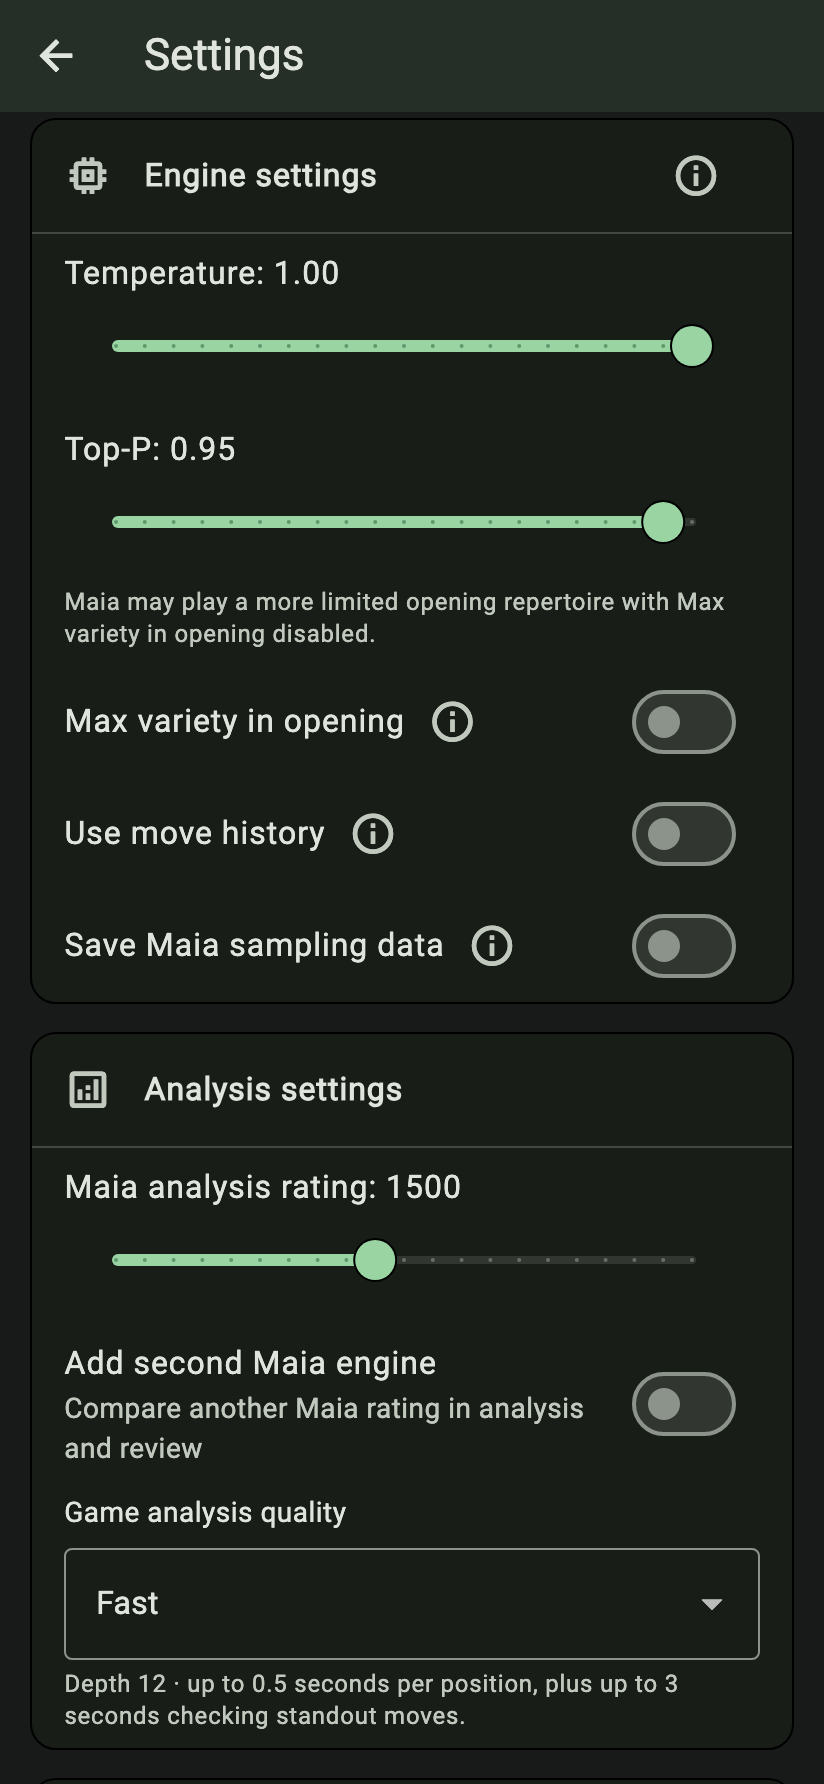
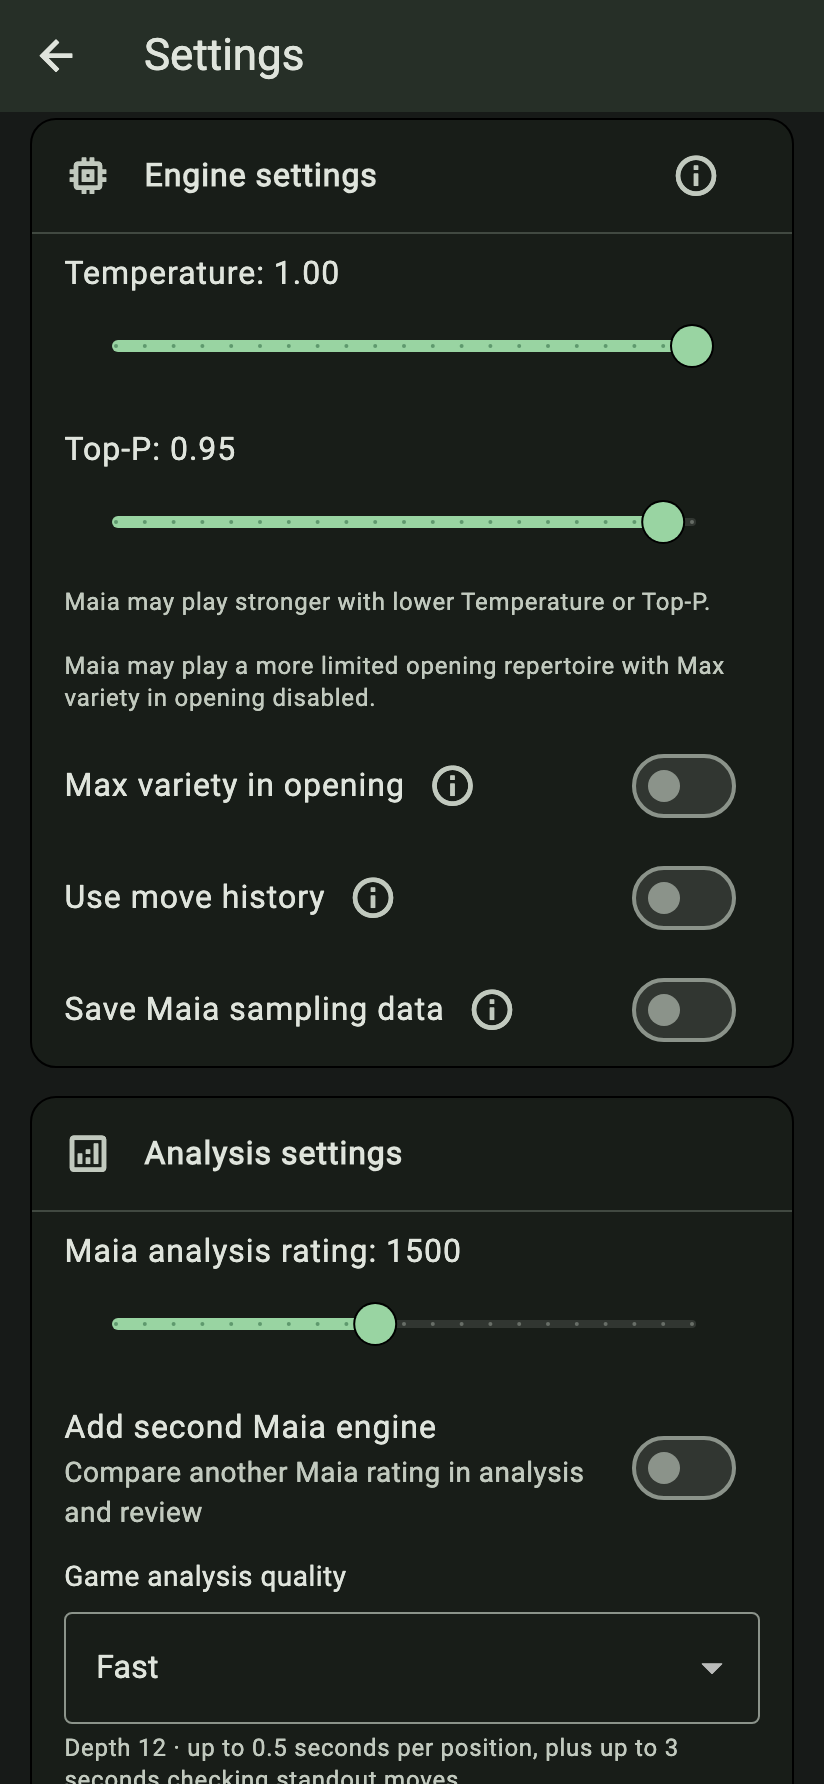
Show strength and repertoire notices when opening variety is off

diff --git a/test/sampling_defaults_test.dart b/test/sampling_defaults_test.dart
@@ -16,13 +16,14 @@ void main() {
       final deterministic = s.samplingArgmaxNotice;
       final afterOpening = s.samplingArgmaxAfterOpeningNotice;
       final lowerAfterOpening = s.samplingLowerAfterOpeningNotice;
+      final lower = s.samplingLowerNotice;
       final cases = <(double, double, bool, List<String>)>[
         (1, 0.95, true, [lowerAfterOpening]),
-        (1, 0.95, false, [limited]),
-        (1, 0.99, false, [limited]),
+        (1, 0.95, false, [lower, limited]),
+        (1, 0.99, false, [lower, limited]),
         (1, 0.99, true, [lowerAfterOpening]),
-        (0.95, 0.95, false, [limited]),
-        (1, 0.90, false, [limited]),
+        (0.95, 0.95, false, [lower, limited]),
+        (1, 0.90, false, [lower, limited]),
         (1, 0.90, true, [lowerAfterOpening]),
         (0.5, 1, true, [lowerAfterOpening]),
         (0.5, 0.95, true, [lowerAfterOpening]),
@@ -33,7 +34,7 @@ void main() {
         (0, 0, false, [deterministic, limited]),
         (0.5, 0, true, [afterOpening]),
         (1, 0, false, [deterministic, limited]),
-        (0.5, 1, false, [limited]),
+        (0.5, 1, false, [lower, limited]),
       ];
       for (final (temperature, topP, openingVariety, expected) in cases) {
         expect(
@@ -82,6 +83,35 @@ void main() {
   });
 
   for (final locale in AppLocalizations.supportedLocales) {
+    testWidgets(
+      'lower settings without opening variety show both notices in ${locale.languageCode}',
+      (tester) async {
+        SharedPreferences.setMockInitialValues({
+          'temperatureV2': 0.5,
+          'topPV2': 0.95,
+          'maxOpeningVarietyV1': false,
+        });
+        tester.view.physicalSize = const Size(320, 568);
+        tester.view.devicePixelRatio = 1;
+        addTearDown(tester.view.resetPhysicalSize);
+        addTearDown(tester.view.resetDevicePixelRatio);
+        final s = await AppLocalizations.delegate.load(locale);
+        await tester.pumpWidget(settingsApp(locale: locale, scale: 2));
+        await openSettings(tester);
+        final notice = key('sampling-recommendation-warning');
+        expect(
+          tester.widget<Text>(notice).data,
+          '${s.samplingLowerNotice}\n\n${s.samplingRecommendationWarning}',
+        );
+        await Scrollable.ensureVisible(tester.element(notice), alignment: 0.5);
+        await tester.pumpAndSettle();
+        expect(notice.hitTestable(), findsOneWidget);
+        expect(tester.takeException(), isNull);
+        await tester.pumpWidget(const SizedBox.shrink());
+        await tester.pumpAndSettle();
+      },
+    );
+
     testWidgets(
       'Temperature 0 preserves disabled Top-P and accessible help in ${locale.languageCode}',
       (tester) async {

diff --git a/lib/l10n/app_localizations.dart b/lib/l10n/app_localizations.dart
@@ -2517,6 +2517,12 @@ abstract class AppLocalizations {
   /// In en, this message translates to:
   /// **'From move 6, Maia may play stronger with lower Temperature or Top-P.'**
   String get samplingLowerAfterOpeningNotice;
+
+  /// Neutral strength notice when opening variety is off and either positive sampling setting is below 1. Display alongside the limited-opening notice. No from-move-six qualifier or Good luck. Zero settings use the separate argmax notice. Maia-specific, no Lichess equivalent.
+  ///
+  /// In en, this message translates to:
+  /// **'Maia may play stronger with lower Temperature or Top-P.'**
+  String get samplingLowerNotice;
 }
 
 class _AppLocalizationsDelegate

diff --git a/lib/src/sampling_help.dart b/lib/src/sampling_help.dart
@@ -12,8 +12,10 @@ List<String> samplingSettingsNotices(
     openingVariety
         ? strings.samplingArgmaxAfterOpeningNotice
         : strings.samplingArgmaxNotice
-  else if (openingVariety && (temperature < 1.0 || topP < 1.0))
-    strings.samplingLowerAfterOpeningNotice,
+  else if (temperature < 1.0 || topP < 1.0)
+    openingVariety
+        ? strings.samplingLowerAfterOpeningNotice
+        : strings.samplingLowerNotice,
   if (!openingVariety && (temperature < 1.0 || topP < 1.0))
     strings.samplingRecommendationWarning,
 ];

diff --git a/lib/l10n/app_localizations_hi.dart b/lib/l10n/app_localizations_hi.dart
@@ -1464,4 +1464,8 @@ class AppLocalizationsHi extends AppLocalizations {
   @override
   String get samplingLowerAfterOpeningNotice =>
       'टेम्परेचर या Top-P कम रखने पर Maia छठी चाल से अधिक मज़बूती से खेल सकती है।';
+
+  @override
+  String get samplingLowerNotice =>
+      'टेम्परेचर या Top-P कम रखने पर Maia अधिक मज़बूती से खेल सकती है।';
 }

diff --git a/lib/l10n/app_localizations_ru.dart b/lib/l10n/app_localizations_ru.dart
@@ -1486,4 +1486,8 @@ class AppLocalizationsRu extends AppLocalizations {
   @override
   String get samplingLowerAfterOpeningNotice =>
       'С 6-го хода Maia может играть сильнее при более низкой температуре или Top-P.';
+
+  @override
+  String get samplingLowerNotice =>
+      'Maia может играть сильнее при более низкой температуре или Top-P.';
 }

diff --git a/lib/l10n/app_localizations_ja.dart b/lib/l10n/app_localizations_ja.dart
@@ -1364,4 +1364,7 @@ class AppLocalizationsJa extends AppLocalizations {
   @override
   String get samplingLowerAfterOpeningNotice =>
       '温度またはTop-Pを低くすると、6手目からMaiaがより強くなる可能性があります。';
+
+  @override
+  String get samplingLowerNotice => '温度またはTop-Pを低くすると、Maiaがより強くなる可能性があります。';
 }

diff --git a/lib/l10n/app_localizations_es.dart b/lib/l10n/app_localizations_es.dart
@@ -1467,4 +1467,8 @@ class AppLocalizationsEs extends AppLocalizations {
   @override
   String get samplingLowerAfterOpeningNotice =>
       'A partir de la sexta jugada, Maia puede jugar más fuerte con una temperatura o un Top-P más bajos.';
+
+  @override
+  String get samplingLowerNotice =>
+      'Maia puede jugar más fuerte con una temperatura o un Top-P más bajos.';
 }

diff --git a/lib/l10n/app_localizations_de.dart b/lib/l10n/app_localizations_de.dart
@@ -1470,4 +1470,8 @@ class AppLocalizationsDe extends AppLocalizations {
   @override
   String get samplingLowerAfterOpeningNotice =>
       'Ab dem 6. Zug kann Maia mit niedrigerer Temperatur oder niedrigerem Top-P stärker spielen.';
+
+  @override
+  String get samplingLowerNotice =>
+      'Maia kann mit niedrigerer Temperatur oder niedrigerem Top-P stärker spielen.';
 }

diff --git a/lib/l10n/app_localizations_pt.dart b/lib/l10n/app_localizations_pt.dart
@@ -1475,4 +1475,8 @@ class AppLocalizationsPt extends AppLocalizations {
   @override
   String get samplingLowerAfterOpeningNotice =>
       'A partir do 6º lance, Maia pode jogar mais forte com uma temperatura ou um Top-P mais baixos.';
+
+  @override
+  String get samplingLowerNotice =>
+      'Maia pode jogar mais forte com uma temperatura ou um Top-P mais baixos.';
 }

diff --git a/lib/l10n/app_localizations_fr.dart b/lib/l10n/app_localizations_fr.dart
@@ -1466,4 +1466,8 @@ class AppLocalizationsFr extends AppLocalizations {
   @override
   String get samplingLowerAfterOpeningNotice =>
       'À partir du 6e coup, Maia peut jouer plus fort avec une température ou un Top-P plus bas.';
+
+  @override
+  String get samplingLowerNotice =>
+      'Maia peut jouer plus fort avec une température ou un Top-P plus bas.';
 }

diff --git a/lib/l10n/app_localizations_ko.dart b/lib/l10n/app_localizations_ko.dart
@@ -1366,4 +1366,7 @@ class AppLocalizationsKo extends AppLocalizations {
   @override
   String get samplingLowerAfterOpeningNotice =>
       '온도나 Top-P를 낮추면 6수째부터 Maia가 더 강하게 둘 수 있습니다.';
+
+  @override
+  String get samplingLowerNotice => '온도나 Top-P를 낮추면 Maia가 더 강하게 둘 수 있습니다.';
 }

diff --git a/lib/l10n/app_localizations_en.dart b/lib/l10n/app_localizations_en.dart
@@ -1447,4 +1447,8 @@ class AppLocalizationsEn extends AppLocalizations {
   @override
   String get samplingLowerAfterOpeningNotice =>
       'From move 6, Maia may play stronger with lower Temperature or Top-P.';
+
+  @override
+  String get samplingLowerNotice =>
+      'Maia may play stronger with lower Temperature or Top-P.';
 }
